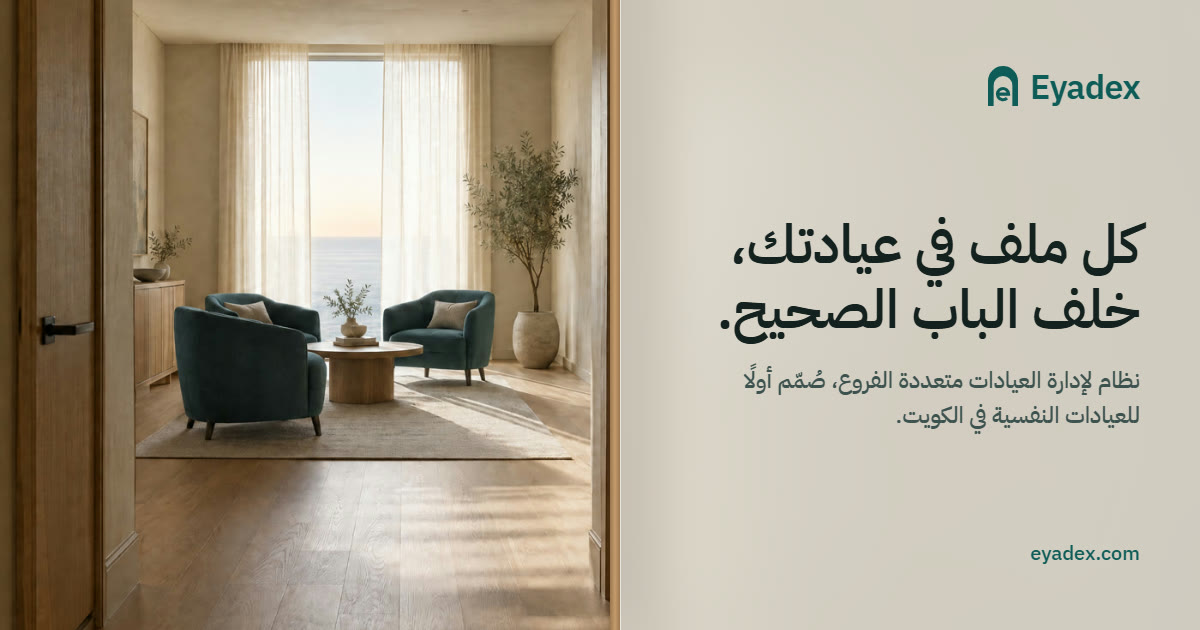
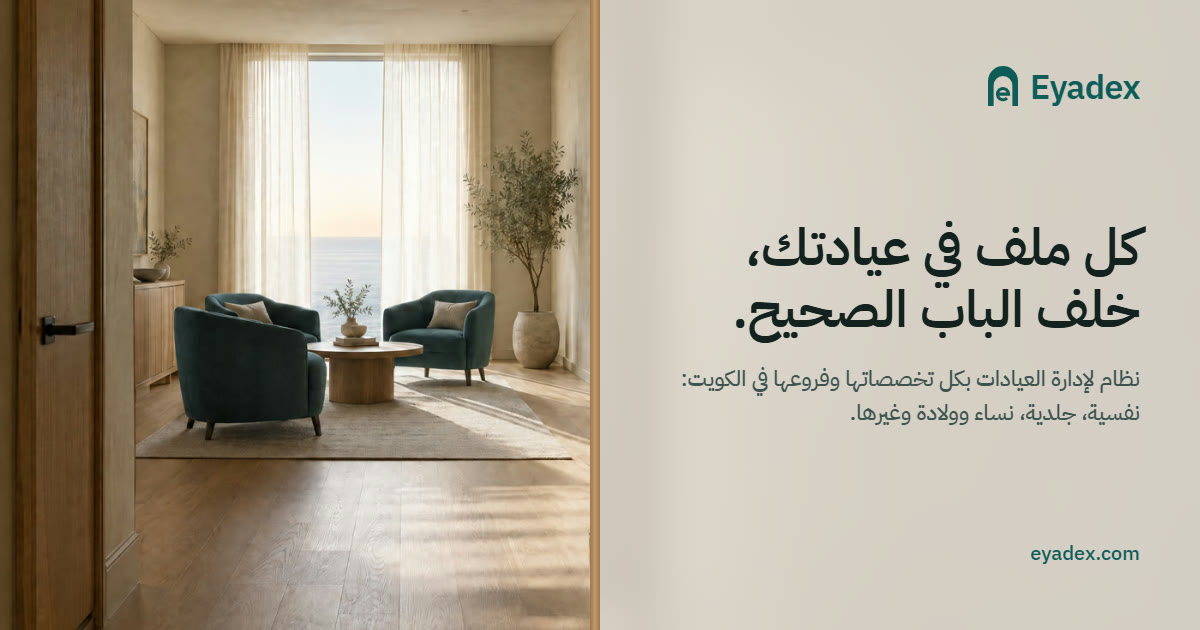
Changes

Changed region(s): [[0.5858, 0.3317, 0.9558, 0.5429], [0.5858, 0.573, 0.9558, 0.6937], [0.4933, 0.0, 0.5242, 1.0]]

diff --git a/.lovable/plan/marketing-landing.md b/.lovable/plan/marketing-landing.md
@@ -9,7 +9,7 @@ Hard constraints still hold: no Lovable Cloud, no Supabase, no forms that store 
 ## 0. What this page must achieve
 
 - The most memorable B2B SaaS landing page in the Gulf health market, and an SEO-first one.
-- Audience: owners and medical directors of psychiatry / psychology clinics in Kuwait, usually with 1 to 5 branches. Arabic first.
+- Audience: owners and medical directors of clinics of every specialty in Kuwait, usually with 1 to 5 branches. Arabic first.
 - The visitor must leave believing ONE sentence: "With Eyadex I decide who sees what in my clinic, and even Eyadex cannot see my patients."
 - One action, one label everywhere: **احجز عرضًا** / **Book a demo**.
 - Tell-someone sentence: "It's the site where even the software company shows you it can't read your patients' files."
@@ -39,12 +39,12 @@ Honesty rules (ship-blockers): no invented customers, testimonials, client logos
 Put this in `src/marketing/seo/marketing-head.ts` and use it from both routes' `head()`.
 
 **Arabic `/`**
-- title: `Eyadex | نظام إدارة العيادات النفسية متعددة الفروع في الكويت`
-- description: `Eyadex نظام سحابي لإدارة العيادات متعددة الفروع، صُمّم أولًا للعيادات النفسية في الكويت: فروع وأدوار وصلاحيات دقيقة وملفات مرضى محمية وسجل لكل من فتح ملفًا. احجز عرضًا.`
+- title: `Eyadex | نظام إدارة العيادات متعددة التخصصات والفروع في الكويت`
+- description: `Eyadex نظام لإدارة العيادات بكل تخصصاتها وفروعها في الكويت: نفسية، جلدية، نساء وولادة وغيرها. فروع وأدوار وصلاحيات دقيقة وملفات مرضى محمية وسجل لكل من فتح ملفًا. احجز عرضًا.`
 
 **English `/en`**
-- title: `Eyadex | Clinic management software for mental-health clinics in Kuwait`
-- description: `Eyadex is clinic management for multi-branch practices, built first for psychiatry and psychology clinics in Kuwait: branches, precise roles and permissions, protected patient files and a log of every file opened. Book a demo.`
+- title: `Eyadex | Clinic management software for every specialty in Kuwait`
+- description: `Eyadex is clinic management for every specialty and branch in Kuwait: dermatology, psychiatry, OB/GYN and more. Branches, precise roles and permissions, protected patient files and a log of every file opened. Book a demo.`
 
 Both pages:
 - `<link rel="canonical">` to `https://eyadex.com/` and `https://eyadex.com/en`.
@@ -69,7 +69,7 @@ Both pages:
 | `public/marketing/hero-mobile.mp4` | hero scrub video, 9:16 |
 | `public/marketing/hero-mobile.webp` | its own first frame 720×1280 |
 | `public/marketing/olive.webp` | foreground olive branch, real alpha |
-| `public/marketing/key-{admin,doctor,cashier,tech,team}.webp` | the five keys, real alpha |
+| `public/marketing/key-{admin,doctor,receptionist,tech,team}.webp` | the five keys, real alpha |
 | `public/marketing/corridor.webp` | corridor of frosted doors 1920×1080 |
 | `public/marketing/close.webp` | golden-hour room, door open (close) 1920×1080 |
 | `public/brand/eyadex-mark.svg`, `eyadex-mark-white.svg`, `eyadex-icon.svg` | logo (arch doorway with an "e") |
@@ -154,16 +154,16 @@ Section height `230vh` desktop / `180vh` mobile; a `100svh` sticky stage inside.
 Copy:
 - H1 ar: `كل ملف في عيادتك، خلف الباب الصحيح.`
 - H1 en: `Every file in your clinic, behind the right door.`
-- Lead ar: `Eyadex نظام لإدارة العيادات متعددة الفروع، صُمّم أولًا للعيادات النفسية. أنت تقرر من يرى ماذا، وقاعدة البيانات نفسها تلتزم بقرارك.`
-- Lead en: `Eyadex is clinic management for multi-branch practices, built first for mental-health clinics. You decide who sees what, and the database itself keeps to your decision.`
+- Lead ar: `Eyadex نظام لإدارة العيادات بكل تخصصاتها وفروعها: نفسية، جلدية، نساء وولادة وغيرها. أساس واحد ثابت لكل عيادة، وأقسام إضافية حسب تخصصك، وأنت تقرر من يرى ماذا.`
+- Lead en: `Eyadex is clinic management for every specialty and every branch: dermatology, psychiatry, OB/GYN and more. One fixed core for every clinic, extra sections for your specialty, and you decide who sees what.`
 - Primary: `احجز عرضًا` / `Book a demo`. Secondary text link to `#keyring`: `جرّب المفاتيح بنفسك` / `Try the keys yourself`.
 - Second beat ar: `غرفة هادئة. ملفات محمية. وفريق يرى ما يحتاجه فقط.`
 - Second beat en: `A quiet room. Protected files. A team that sees only what it needs.`
 
 ### Act 2. The truth (pinned type). Feeling: unease
 Canvas ground, `200vh`, sticky stage. Three lines assemble one at a time (each enters `translateY(12px)`+opacity, previous lines dim to 35%), anchored to the inline-start column, large (h2 scale). Then an **authored silence**: ~40vh of empty canvas before Act 3.
-- ar: `ملف المريض النفسي ليس ملفًا عاديًا.` / `موظف الاستقبال في فرع لا يحتاج مرضى فرع آخر.` / `ومن يبيعك النظام لا يحتاج أن يرى مرضاك أبدًا.`
-- en: `A mental-health patient file is not an ordinary file.` / `Front desk in one branch has no reason to see another branch's patients.` / `And the company selling you the software has no reason to see them at all.`
+- ar: `ملف المريض ليس ملفًا عاديًا، أيًّا كان تخصصك.` / `موظف الاستقبال في فرع لا يحتاج مرضى فرع آخر.` / `ومن يبيعك النظام لا يحتاج أن يرى مرضاك أبدًا.`
+- en: `A patient file is not an ordinary file, whatever your specialty.` / `Front desk in one branch has no reason to see another branch's patients.` / `And the company selling you the software has no reason to see them at all.`
 - h2 (visually hidden, for the outline): `لماذا الخصوصية أولًا` / `Why privacy comes first`.
 
 ### Act 3. The Keyring (SIGNATURE MOVE + PEAK). Feeling: control, then surprise
@@ -174,18 +174,27 @@ Sub ar: `عيادة افتراضية ببيانات تجريبية. هذه هي 
 Sub en: `A fictional clinic with sample data. These are the default roles every new clinic starts with; you can edit them or build your own.`
 A small label on the panel: `بيانات تجريبية` / `Sample data`.
 
-Stage layout: inline-start column = a thin brass rail with the five key images hanging from it (`key-admin`, `key-doctor`, `key-cashier`, `key-tech`, `key-team`), each a real `<button role="radio">` inside a `role="radiogroup"` with its role name under it (`مدير العيادة / Clinic admin`, `طبيب / Doctor`, `كاشير / Cashier`, `فني / Technician`, `فريق Eyadex / Eyadex team`). Selected key lifts 10px and swings 4deg, others dim to 55%. Inline-end column = a **real, computing** mini Eyadex window built with the app's own visual language (white surface, hairlines, teal active state, IBM Plex): a narrow sidebar (Overview, Branches, Users, Roles, Patients, Audit log, Settings), a patients table, and an open patient file panel.
+Stage layout: inline-start column = a thin brass rail with the five key images hanging from it (`key-admin`, `key-doctor`, `key-receptionist`, `key-tech`, `key-team`), each a real `<button role="radio">` inside a `role="radiogroup"` with its role name under it (`مدير العيادة / Clinic admin`, `طبيب / Doctor`, `موظف استقبال / Receptionist`, `فني / Technician`, `فريق Eyadex / Eyadex team`). Selected key lifts 10px and swings 4deg, others dim to 55%. Inline-end column = a **real, computing** mini Eyadex window built with the app's own visual language (white surface, hairlines, teal active state, IBM Plex): a narrow sidebar (Overview, Branches, Users, Roles, Patients, Audit log, Settings), a patients table, and an open patient file panel.
 
 Logic (pure functions in `src/marketing/keyring/keyring-model.ts`, unit-testable):
 - Import `PERMISSION_CATALOG` from `@contracts/permissions` and `ROLE_TEMPLATES` from `src/shared/api/mock/seed-roles.ts` (pure data only, never the mock store or ApiClient), so the demo always matches the real defaults.
-- Sample clinic: `عيادة السكينة للطب النفسي / Al Sakina Psychiatry (sample)`, branches `السالمية / Salmiya` and `حولي / Hawalli`. Sample personas: Clinic admin (all branches), Doctor (Salmiya), Cashier (Salmiya), Technician (Hawalli).
+- Sample clinic: `مجمع السكينة الطبي (عيّنة) / Al Sakina Medical Centre (sample)`, branches `السالمية / Salmiya` and `حولي / Hawalli`. Sample personas: Clinic admin (all branches), Doctor (Salmiya), Receptionist (Salmiya), Technician (Hawalli).
 - Six sample patients, three per branch, fictional names, file numbers 1041..1046, phones masked like `+965 5••• ••37`, no civil ID, no clinical data.
 - For the chosen key compute: visible sidebar items (from `view:*` permissions), visible rows (clinic scope = all; branch scope = rows in the persona's branches; others render as a frosted row with the text `خارج فروعك / Outside your branches`), and which buttons exist (`New patient` needs create, `Edit` needs update, `Archive` needs deactivate). Buttons that are not allowed are absent, not disabled.
 - Under the window, one caption line generated from the computed result, e.g. ar `يرى مرضى فرع السالمية فقط، ويستطيع الإضافة والتعديل.`, en `Sees Salmiya patients only, and can add and edit.` (build from parts, both languages, so it is always true to ROLE_TEMPLATES).
 - Each time a key that can view is selected, the sample file 1042 opens and a line is appended to a small ledger under the window: `{persona} فتح ملف 1042 · الآن` / `{persona} opened file 1042 · just now` (max 4 lines, newest first). For a key whose branch scope excludes 1042, open the first patient it can see instead. This shows the audit log of patient access.
 - **The Eyadex team key (the peak):** the platform has no grant on patients. The whole patient area frosts over (rows, file, buttons), the sidebar shrinks to Overview only, and a stamp appears in the middle with a small lock icon: ar `مرفوض من قاعدة البيانات نفسها.` + `فريق Eyadex يدير اشتراك عيادتك، ولا يملك أي صلاحية على جدول المرضى.` en `Refused by the database itself.` + `The Eyadex team manages your clinic's subscription and has no grant on the patients table.` The ledger adds no line (nothing was opened).
-- Desktop scroll drives the key in order admin → doctor → cashier → technician → team, with the team key owning the last 40% of the span (the peak gets the most room). Clicking a key selects it immediately; scrolling only changes the key when the progress crosses into a new segment. Keyboard: arrow keys move within the radiogroup.
+- Desktop scroll drives the key in order admin → doctor → receptionist → technician → team, with the team key owning the last 40% of the span (the peak gets the most room). Clicking a key selects it immediately; scrolling only changes the key when the progress crosses into a new segment. Keyboard: arrow keys move within the radiogroup.
 - Frost transitions: 280ms opacity + backdrop-filter, rows staggered 40ms.
+
+### New Act. One core, your specialty on top. Feeling: recognition
+Not pinned. Two-column layout: inline-start has the heading and paragraph; inline-end has one specialty segmented control above a real two-layer diagram. The solid core band stays perfectly still while only the lighter specialty band crossfades over 240ms.
+
+- h2 ar `أساس واحد لكل العيادات. وتخصصك فوقه.` en `One core for every clinic. Your specialty on top.`
+- p ar `كل عيادة تحصل على الأساس نفسه من اليوم الأول. ومع كل تخصص تأتي أقسام إضافية تناسب طريقة عمله، دون أن يتغير شيء في الأساس.` en `Every clinic gets the same core from day one. Each specialty adds sections that fit how it works, without changing anything in the core.`
+- Selector: نفسية / Psychiatry · جلدية / Dermatology · نساء وولادة / OB/GYN · عيادة عامة / General practice. These names must be present in SSR text.
+- Core band, always unchanged: الفروع، الفريق، الأدوار والصلاحيات، ملفات المرضى، سجل التدقيق، الاشتراك / Branches, Team, Roles and permissions, Patient files, Audit log, Subscription.
+- Specialty band, labelled `حسب التخصص / By specialty`; every item carries `على خارطة الطريق / On the roadmap`: نفسية = الجلسات وملاحظات الطبيب، خطط العلاج / Sessions and doctor notes, Treatment plans; جلدية = صور قبل وبعد، جلسات الليزر والإجراءات / Before and after photos, Laser and procedure sessions; نساء وولادة = متابعة الحمل، مواعيد السونار / Pregnancy follow-up, Ultrasound visits; عيادة عامة = الزيارات والوصفات / Visits and prescriptions.
 
 ### Act 4. How it holds. Feeling: confidence
 Two parts, different devices.
@@ -198,7 +207,7 @@ Two parts, different devices.
 **4b. The corridor (parallax + ledger).** Full-bleed `corridor.webp` with slow parallax (image translates 8vh across the section) and a frosted caption plate on the inline-start side (mask the image away from the plate, no scrim):
 - h2 ar `كل باب يُفتح لمن تختاره فقط.` en `Every door opens only for the people you choose.`
 - p ar `سجل تدقيق للإضافة فقط: من غيّر دورًا، من أوقف مستخدمًا، ومن فتح ملف مريض ومتى. لا يُعدَّل ولا يُحذف.` en `An append-only audit log: who changed a role, who deactivated a user, who opened a patient file and when. It cannot be edited or deleted.`
-- Below the plate, a ledger that writes itself line by line when in view (60ms stagger, monospace allowed here because it is data, tabular numerals), labelled Sample data: `09:12  مدير العيادة  عدّل دور «طبيب»` / `09:40  د. سارة  فتحت ملف 1042` / `10:05  مدير العيادة  أضاف فرع حولي` / `10:31  الكاشير  سجّل مريضًا جديدًا 1046` (English: `09:12  Clinic admin  edited role "Doctor"` / `09:40  Dr. Sara  opened file 1042` / `10:05  Clinic admin  added branch Hawalli` / `10:31  Cashier  registered new patient 1046`).
+- Below the plate, a ledger that writes itself line by line when in view (60ms stagger, monospace allowed here because it is data, tabular numerals), labelled Sample data: `09:12  مدير العيادة  عدّل دور «طبيب»` / `09:40  د. سارة  فتحت ملف 1042` / `10:05  مدير العيادة  أضاف فرع حولي` / `10:31  موظفة الاستقبال  سجّلت مريضًا جديدًا 1046` (English: `09:12  Clinic admin  edited role "Doctor"` / `09:40  Dr. Sara  opened file 1042` / `10:05  Clinic admin  added branch Hawalli` / `10:31  Receptionist  registered new patient 1046`).
 - One more short line under it: ar `وكل عيادة معزولة عن غيرها داخل قاعدة البيانات نفسها، لا في الواجهة فقط.` en `And every clinic is isolated from every other inside the database itself, not just in the interface.`
 - One plain sentence on subscriptions (no card): ar `ترى دائمًا عدد مستخدميك وفروعك مقابل حدود اشتراكك، وتصلك تنبيهات قبل انتهائه.` en `You always see your users and branches against your subscription limits, with reminders before it ends.`
 
@@ -206,18 +215,19 @@ Two parts, different devices.
 Canvas ground, not pinned. h2 ar `عربي أولًا. وإنجليزي بالإتقان نفسه.` en `Arabic first. English just as carefully.` p ar `الواجهة كاملة تنقلب بين العربية من اليمين والإنجليزية من اليسار، ولكل مستخدم لغته.` en `The whole interface flips between right-to-left Arabic and left-to-right English, and every user keeps their own language.` Interaction: a segmented control `عربي | English` above a small sample branches table (two rows, real markup, Sample data). Toggling flips ONLY that sample's `dir` and strings, with a 240ms crossfade + 12px slide in the reading direction. It never changes the page language.
 
 ### Act 6. What's next (honest roadmap). Feeling: trust
-Short, quiet, two-column on desktop (heading + intro in one column, list in the other). h2 ar `ما بعد الأساس` en `After the foundation`. p ar `بدأنا بما لا يُبنى شيء بأمان من دونه: العزل والصلاحيات والسجل. وهذا ما نعمل عليه بعده.` en `We started with what nothing can be built safely without: isolation, permissions and the audit log. This is what we are working on next.` List (each with a small `على خارطة الطريق / On the roadmap` tag, no dates): المواعيد والجدولة / Appointments and scheduling · الجلسات وملاحظات الطبيب / Sessions and doctor notes · الملف الطبي / Medical record · التنبيهات بالبريد ثم واتساب / Notifications, email then WhatsApp · الإدارة المالية / Finance · صفحة لكل عيادة على نطاقها / A page for each clinic on its own address · مساعد ذكي / An AI assistant.
+Short, quiet, two-column on desktop (heading + intro in one column, list in the other). h2 ar `ما بعد الأساس` en `After the foundation`. p ar `بدأنا بما لا يُبنى شيء بأمان من دونه: العزل والصلاحيات والسجل. وهذا ما نعمل عليه بعده.` en `We started with what nothing can be built safely without: isolation, permissions and the audit log. This is what we are working on next.` List (each with a small `على خارطة الطريق / On the roadmap` tag, no dates): المواعيد والجدولة / Appointments and scheduling · أقسام خاصة بكل تخصص / Sections for each specialty · الملف الطبي / Medical record · التنبيهات بالبريد ثم واتساب / Notifications, email then WhatsApp · الإدارة المالية / Finance · صفحة لكل عيادة على نطاقها / A page for each clinic on its own address · مساعد ذكي / An AI assistant.
 
 ### Act 7. Questions (FAQ, also JSON-LD). Feeling: reassurance
 shadcn `Accordion`, single column, max 760px, h2 ar `أسئلة شائعة` en `Questions`. Answers must be present in the SSR HTML (collapsed content still in the DOM).
-1. `لمن صُمّم Eyadex؟` / `للعيادات التي لديها فرع واحد أو أكثر، وبدأنا بالعيادات النفسية في الكويت لأن بيانات مرضاها هي الأكثر حساسية.` | `Who is Eyadex for?` / `Clinics with one or more branches. We started with psychiatry and psychology clinics in Kuwait because their patient data is the most sensitive.`
+1. `لمن صُمّم Eyadex؟` / `للعيادات بكل تخصصاتها، بفرع واحد أو أكثر: نفسية وجلدية ونساء وولادة وغيرها. الأساس واحد للجميع، والأقسام الخاصة بكل تخصص على خارطة الطريق.` | `Who is Eyadex for?` / `Clinics of every specialty, with one branch or many: dermatology, psychiatry, OB/GYN and more. The core is the same for everyone; sections for each specialty are on the roadmap.`
 2. `هل يستطيع فريق Eyadex رؤية بيانات مرضاي؟` / `لا. حساب المنصة لا يملك أي صلاحية على جدول المرضى في قاعدة البيانات، فلا تظهر بيانات المرضى له في أي شاشة أو سجل.` | `Can the Eyadex team see my patients' data?` / `No. The platform account has no grant on the patients table in the database, so patient data never appears to it on any screen or log.`
 3. `هل بيانات عيادتي معزولة عن العيادات الأخرى؟` / `نعم. كل سجل يحمل هوية عيادته، وقاعدة البيانات نفسها ترفض أي طلب من عيادة على بيانات عيادة أخرى.` | `Is my clinic's data isolated from other clinics?` / `Yes. Every record carries its clinic's identity, and the database itself refuses any request from one clinic for another clinic's data.`
 4. `هل يدعم أكثر من فرع؟` / `نعم. تضيف فروعك، وتحدد لكل مستخدم الفروع التي يعمل بها أو كل الفروع.` | `Does it support several branches?` / `Yes. You add your branches and choose, for each user, the branches they work in or all of them.`
-5. `هل أستطيع إنشاء أدوار خاصة بعيادتي؟` / `نعم. تبدأ بأدوار جاهزة (مدير العيادة، طبيب، كاشير، فني) ثم تعدلها أو تنشئ أدوارك من كتالوج الصلاحيات.` | `Can I create my own roles?` / `Yes. You start with ready roles (clinic admin, doctor, cashier, technician), then edit them or build your own from the permission catalogue.`
+5. `هل أستطيع إنشاء أدوار خاصة بعيادتي؟` / `نعم. تبدأ بأدوار جاهزة (مدير العيادة، طبيب، موظف استقبال، فني) ثم تعدلها أو تنشئ أدوارك من كتالوج الصلاحيات.` | `Can I create my own roles?` / `Yes. You start with ready roles (clinic admin, doctor, receptionist, technician), then edit them or build your own from the permission catalogue.`
 6. `هل الواجهة بالعربية؟` / `العربية هي اللغة الافتراضية مع دعم كامل للإنجليزية، وكل مستخدم يختار لغته.` | `Is the interface in Arabic?` / `Arabic is the default, with full English support, and every user picks their own language.`
 7. `كيف أبدأ؟` / `احجز عرضًا. بعد الحديث معك نجهز عيادتك وفروعها، ونرسل دعوة لمدير العيادة ليضع كلمة مروره بنفسه.` | `How do I get started?` / `Book a demo. After we talk, we set up your clinic and its branches and send an invitation to your clinic admin, who sets their own password.`
 8. `ما الذي يتضمنه الآن؟` / `الأساس: العيادات والفروع والمستخدمون والأدوار والصلاحيات وملفات المرضى الأساسية وسجل التدقيق. المواعيد والجلسات والمالية على خارطة الطريق.` | `What does it include today?` / `The foundation: clinics, branches, users, roles and permissions, basic patient files and the audit log. Appointments, sessions and finance are on the roadmap.`
+9. `هل يناسب عيادتي الجلدية أو عيادة النساء والولادة؟` / `نعم. الأساس من فروع وأدوار وصلاحيات وملفات مرضى وسجل يعمل لكل التخصصات اليوم، والأقسام الخاصة بتخصصك تُضاف فوقه.` | `Will it fit my dermatology or OB/GYN clinic?` / `Yes. The core (branches, roles, permissions, patient files and the log) works for every specialty today, and your specialty's sections are added on top.`
 
 ### Act 8. The door opens (close). Feeling: resolution, invitation
 Full-bleed `close.webp` (golden hour, open door), `140vh` with a gentle pin: the image settles from scale 1.06 to 1 while a frosted plate on the inline-start side resolves. The page ENDS here (it does not fade into a footer).
